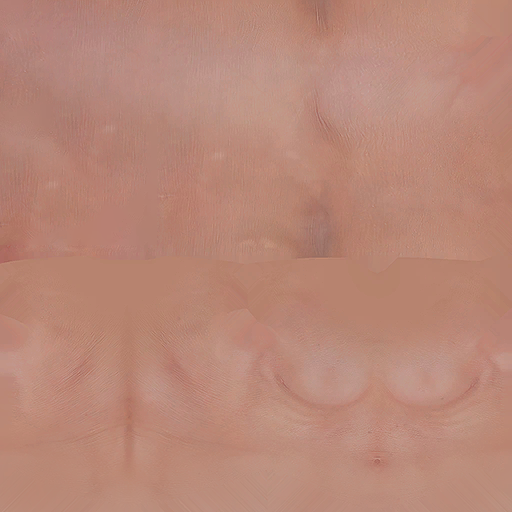
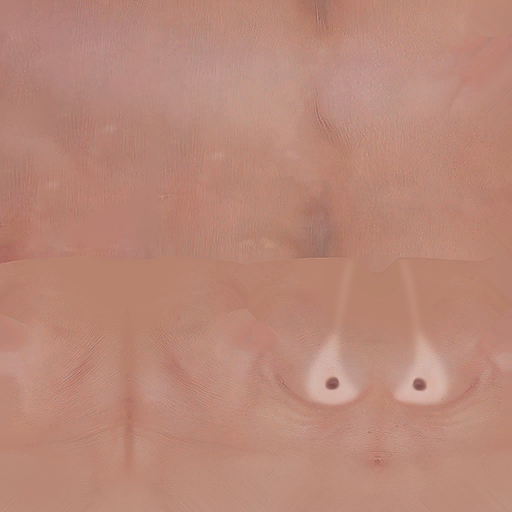
Fim

Changed region(s): [[0.7812, 0.6562, 0.875, 0.8125], [0.5938, 0.6562, 0.6875, 0.8125]]

diff --git a/index.html b/index.html
@@ -657,7 +657,7 @@
         <div id="header-panel" class="ui-header">
             <div class="header-title-row">
                 <h1>Skin <span>Feminina</span></h1>
-                <div class="circular-progress" style="--prog: 91;">                    <svg viewBox="0 0 36 36">                        <path class="circle-bg" d="M18 2.0845 a 15.9155 15.9155 0 0 1 0 31.831 a 15.9155 15.9155 0 0 1 0 -31.831"/>                        <path class="circle-fill" style="stroke-dasharray: var(--prog), 100;" d="M18 2.0845 a 15.9155 15.9155 0 0 1 0 31.831 a 15.9155 15.9155 0 0 1 0 -31.831"/>                    </svg>                    <div class="circle-text">91%</div>                </div>
+                <div class="circular-progress premium-completed-halo" title="Projeto 100% Concluído!">                    <svg viewBox="0 0 24 24" fill="none" stroke="currentColor" stroke-linecap="round" stroke-linejoin="round">                        <polyline points="20 6 9 17 4 12"></polyline>                    </svg>                </div>
             </div>
             <p>Visualizador Interativo & Orçamento</p>
         </div>
@@ -742,13 +742,13 @@
                     },
                     {
                         "file": "fbracos1b.png",
-                        "color": "#888888",
-                        "disponivel": false
+                        "color": "#907050",
+                        "disponivel": true
                     },
                     {
                         "file": "fbracos1c.png",
-                        "color": "#888888",
-                        "disponivel": false
+                        "color": "#604030",
+                        "disponivel": true
                     }
                 ]
             },
@@ -774,13 +774,13 @@
                     },
                     {
                         "file": "fpernas1b.png",
-                        "color": "#888888",
-                        "disponivel": false
+                        "color": "#907050",
+                        "disponivel": true
                     },
                     {
                         "file": "fpernas1c.png",
-                        "color": "#888888",
-                        "disponivel": false
+                        "color": "#604030",
+                        "disponivel": true
                     }
                 ]
             },
@@ -807,12 +807,12 @@
                     {
                         "file": "fpernas1b.png",
                         "color": "#888888",
-                        "disponivel": false
+                        "disponivel": true
                     },
                     {
                         "file": "fpernas1c.png",
                         "color": "#888888",
-                        "disponivel": false
+                        "disponivel": true
                     }
                 ]
             },
@@ -950,13 +950,13 @@
                     },
                     {
                         "file": "fbracos1b.png",
-                        "color": "#888888",
-                        "disponivel": false
+                        "color": "#907050",
+                        "disponivel": true
                     },
                     {
                         "file": "fbracos1c.png",
-                        "color": "#888888",
-                        "disponivel": false
+                        "color": "#604030",
+                        "disponivel": true
                     }
                 ]
             },
@@ -982,13 +982,13 @@
                     },
                     {
                         "file": "fbracos1b.png",
-                        "color": "#888888",
-                        "disponivel": false
+                        "color": "#907050",
+                        "disponivel": true
                     },
                     {
                         "file": "fbracos1c.png",
-                        "color": "#888888",
-                        "disponivel": false
+                        "color": "#604030",
+                        "disponivel": true
                     }
                 ]
             },
@@ -1014,13 +1014,13 @@
                     },
                     {
                         "file": "fpernas1b.png",
-                        "color": "#888888",
-                        "disponivel": false
+                        "color": "#907050",
+                        "disponivel": true
                     },
                     {
                         "file": "fpernas1c.png",
-                        "color": "#888888",
-                        "disponivel": false
+                        "color": "#604030",
+                        "disponivel": true
                     }
                 ]
             },
@@ -1046,13 +1046,13 @@
                     },
                     {
                         "file": "fbracos1b.png",
-                        "color": "#888888",
-                        "disponivel": false
+                        "color": "#907050",
+                        "disponivel": true
                     },
                     {
                         "file": "fbracos1c.png",
-                        "color": "#888888",
-                        "disponivel": false
+                        "color": "#604030",
+                        "disponivel": true
                     }
                 ]
             },
@@ -1078,13 +1078,13 @@
                     },
                     {
                         "file": "fpernas1b.png",
-                        "color": "#888888",
-                        "disponivel": false
+                        "color": "#907050",
+                        "disponivel": true
                     },
                     {
                         "file": "fpernas1c.png",
-                        "color": "#888888",
-                        "disponivel": false
+                        "color": "#604030",
+                        "disponivel": true
                     }
                 ]
             }
@@ -1119,13 +1119,13 @@
                     },
                     {
                         "file": "ffacek1b.png",
-                        "color": "#888888",
-                        "disponivel": false
+                        "color": "#907050",
+                        "disponivel": true
                     },
                     {
                         "file": "ffacek1c.png",
                         "color": "#888888",
-                        "disponivel": false
+                        "disponivel": true
                     }
                 ]
             },
@@ -1154,13 +1154,13 @@
                     },
                     {
                         "file": "ffacek2b.png",
-                        "color": "#888888",
-                        "disponivel": false
+                        "color": "#907050",
+                        "disponivel": true
                     },
                     {
                         "file": "ffacek2c.png",
                         "color": "#888888",
-                        "disponivel": false
+                        "disponivel": true
                     }
                 ]
             }
@@ -1581,7 +1581,7 @@
                 // Restaura o Cabecalho Original
                 header.innerHTML = `<div class="header-title-row">
                                         <h1>Skin <span>Feminina</span></h1>
-                                        <div class="circular-progress" style="--prog: 91;">                    <svg viewBox="0 0 36 36">                        <path class="circle-bg" d="M18 2.0845 a 15.9155 15.9155 0 0 1 0 31.831 a 15.9155 15.9155 0 0 1 0 -31.831"/>                        <path class="circle-fill" style="stroke-dasharray: var(--prog), 100;" d="M18 2.0845 a 15.9155 15.9155 0 0 1 0 31.831 a 15.9155 15.9155 0 0 1 0 -31.831"/>                    </svg>                    <div class="circle-text">91%</div>                </div>
+                                        <div class="circular-progress premium-completed-halo" title="Projeto 100% Concluído!">                    <svg viewBox="0 0 24 24" fill="none" stroke="currentColor" stroke-linecap="round" stroke-linejoin="round">                        <polyline points="20 6 9 17 4 12"></polyline>                    </svg>                </div>
                                     </div>
                                     <p>Visualizador Interativo & Orçamento</p>`;
                 
